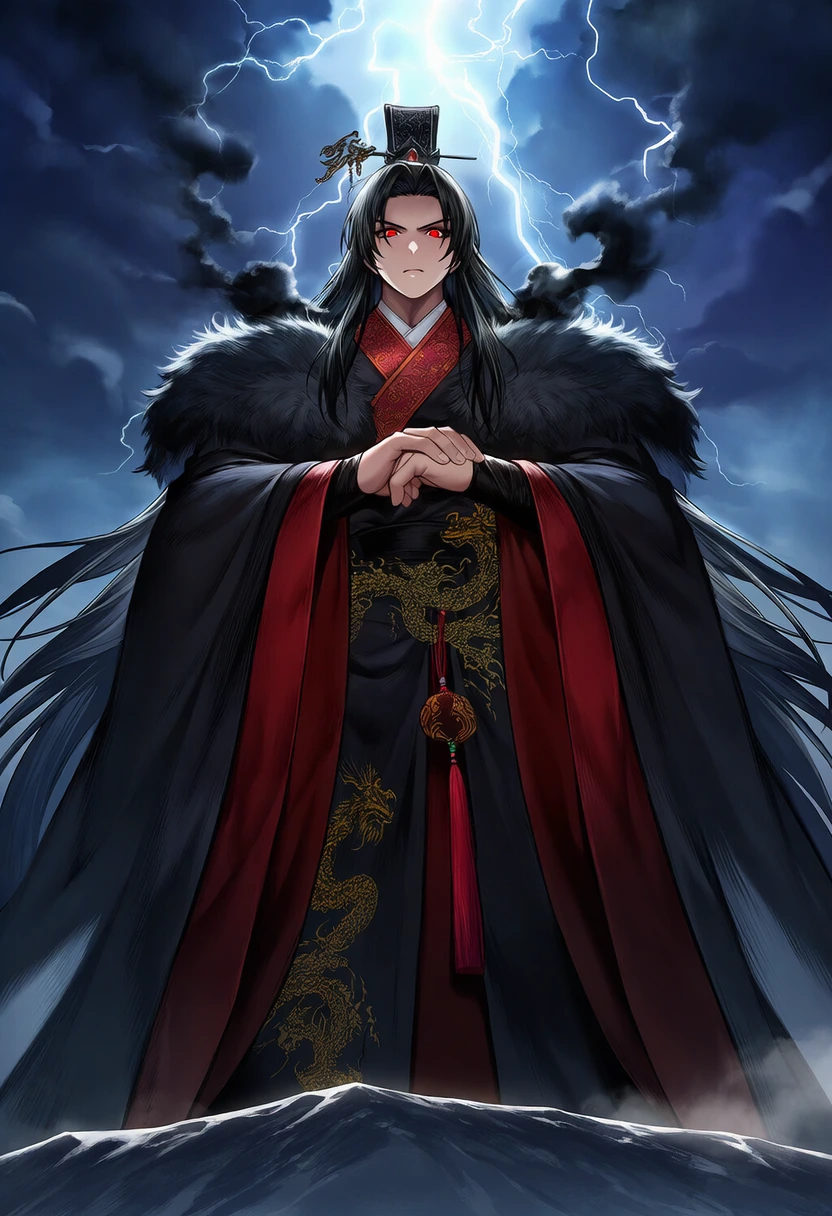
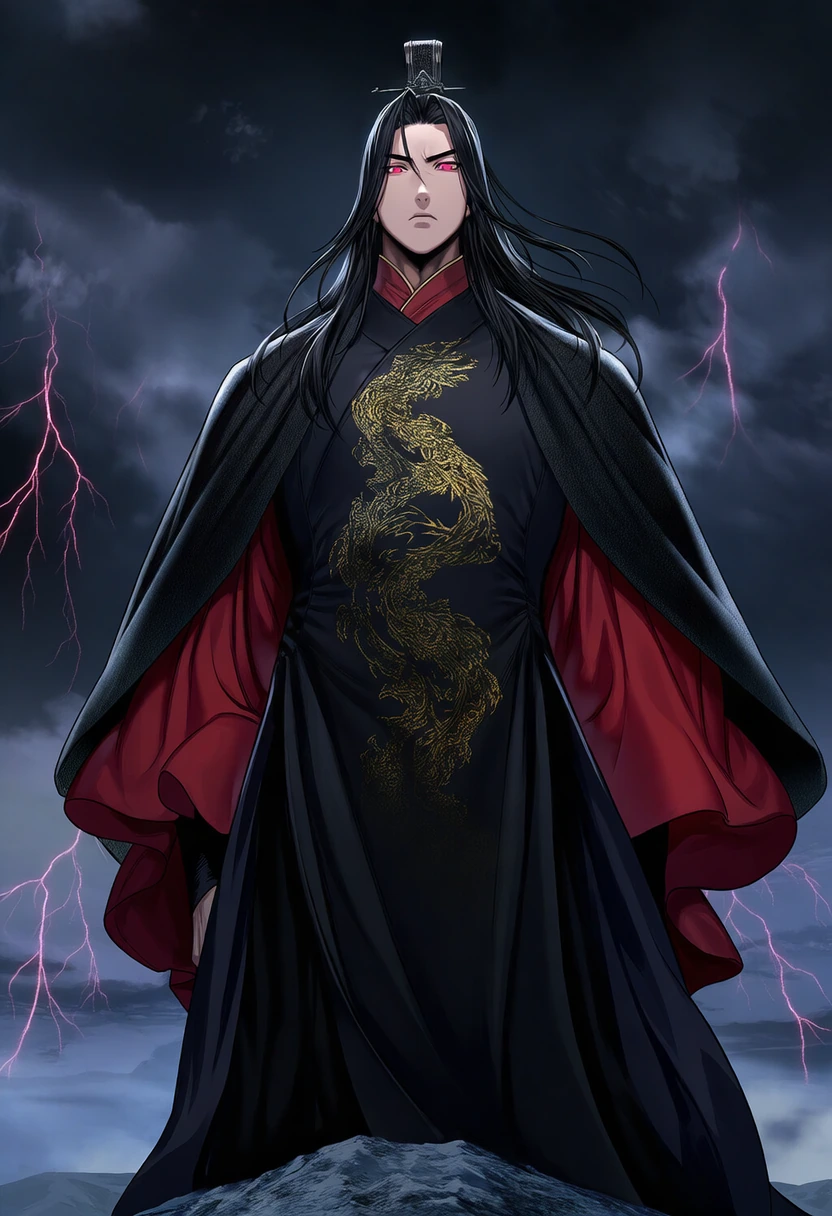
천마: 손을 앞에 모은 자세 대신 뒷짐 (#146)
Claude-Session: https://claude.ai/code/session_01CwTFys7sMXXhord36DatFd

diff --git a/art/인물.py b/art/인물.py
@@ -144,8 +144,8 @@ SIDE = [
 # (파일 이름, 성별, 배경, 인물, 더 뺄 것). 주요 인물은 시드 9013
 NPC = [
  ("천마", "남", "the snow-covered summit of the heavenly demon peak at night, a sea of storm clouds far below, crimson lightning splitting the dark sky",
-  "1boy, solo, the heavenly demon, absolute ruler of the demonic cult, ageless man who looks in his thirties, overwhelmingly handsome, cold majestic face, long black hair falling heavily down his back, glowing crimson eyes, black jade crown, heavy thick black brocade imperial robe with crimson lining and dense gold dragon embroidery, stiff structured shoulders, heavy fur-trimmed black mantle hanging straight down, weighty fabric, tall broad-shouldered imposing figure, standing alone on the summit edge, feet planted, both hands clasped behind his back, chin raised, black flame aura rising from his shoulders like smoke, overwhelming godlike presence, looking down at viewer with contempt, 1.2::from below, low angle, cowboy shot, the figure filling the frame::, dramatic backlight from the lightning, majestic",
-  "flowing fabric, billowing cloth, ribbons, floating sash, sheer fabric, chiffon, silk scarf, banners, weapon, holding weapon, sword, horns, smile, hand on chin, hand on face, slouching, wide shot, small figure, distant, crowd, throne, chair, desk, table, lectern, podium, box, crate, altar, sitting, seated, hand raised"),
+  "1boy, solo, the heavenly demon, absolute ruler of the demonic cult, ageless man who looks in his thirties, overwhelmingly handsome, cold majestic face, long black hair falling heavily down his back, glowing crimson eyes, black jade crown, heavy thick black brocade imperial robe with crimson lining and dense gold dragon embroidery, stiff structured shoulders, heavy fur-trimmed black mantle hanging straight down, weighty fabric, tall broad-shouldered imposing figure, standing alone on the summit edge, feet planted, 1.3::both arms behind his back, hands hidden behind him, arms not visible in front::, chin raised, black flame aura rising from his shoulders like smoke, overwhelming godlike presence, looking down at viewer with contempt, 1.2::from below, low angle, cowboy shot, the figure filling the frame::, dramatic backlight from the lightning, majestic",
+  "hands together, clasped hands, praying, hands in front, interlocked fingers, hand on chest, flowing fabric, billowing cloth, ribbons, floating sash, sheer fabric, chiffon, silk scarf, banners, weapon, holding weapon, sword, horns, smile, hand on chin, hand on face, slouching, wide shot, small figure, distant, crowd, throne, chair, desk, table, lectern, podium, box, crate, altar, sitting, seated, hand raised"),
  ("혈마", "남", "vast underground temple of the blood sect, a still lake of dark blood stretching behind him, massive chinese stone pillars carved with coiling serpents, red mist, dim crimson light",
   "1boy, solo, the founder of the blood sect revived in a pool of blood, towering imposing man who looks in his forties, broad shoulders, cold sharp handsome face, 1.4::long straight dark crimson red hair::, hair falling loose past the shoulders, deep red eyes with a faint glow, pale skin, thin dark red veins faintly visible on the neck, heavy dark crimson robe and mantle over a black inner robe with faded gold patterns, one hand slightly raised and open with thick blood mist coiling around his fingers, an immense storm of crimson blood mist swirling behind his shoulders, cold contemptuous gaze down at viewer, calm terrifying majesty, 1.5::portrait, close-up, head and shoulders, face in focus, the face filling the upper half of the frame::, slightly from below, dramatic red rim light",
   "weapon, holding weapon, staff, gore, horns, crown, floating hair, smile, open mouth, fangs, exaggerated, skull, small figure, distant, full body, wide shot, stairs, black hair, gothic arch, pointed arch, cathedral, slouching, thin, frail"),
@@ -248,7 +248,7 @@ PICK = {
     "외전홍수_남": 9103,
     "외전홍수_녀": 9103,
     "외전흑사_남": 7027,
-    "천마": 9146,
+    "천마": 9156,
     "초출사부": 9109,
     "표국표사_남": 9107,
     "표국표사_녀": 9107,
